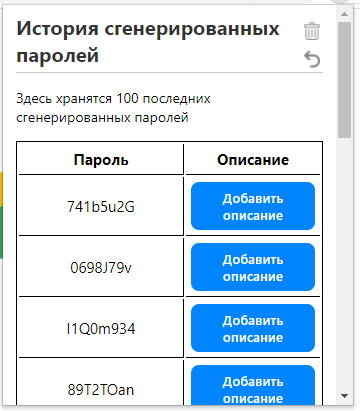
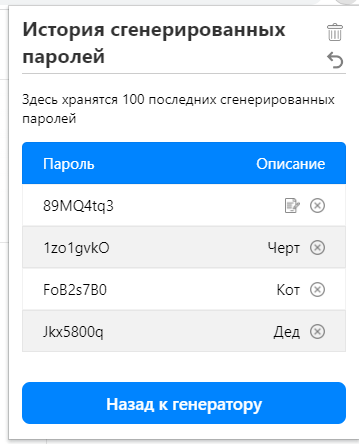
fix input lag after delete password

diff --git a/scripts/storageUI.js b/scripts/storageUI.js
@@ -12,13 +12,14 @@ async function loadPasswords() {
     const passwords = JSON.parse(await getStorageValue("passwordsHistory"));
     passwords.forEach(({ password, hint }, index) => {
         table.innerHTML += `
-        <div class="passwordsHistoryTable-item ${
-            index % 2 === 0 ? "gray-item" : ""
-        }"><p>${password}</p>
+        <div class="passwordsHistoryTable-item 
+        ${index % 2 === 0 ? "gray-item" : ""}"><p>${password}</p>
         <p>${
             hint.length > 0
                 ? `${hint} <img src="./images/cancelation.png" class="deletePasswordBtn" />`
-                : `<img src="./images/contract.png" class="addHintPasswordBtn" id='${index}' /><img src="./images/cancelation.png" class="deletePasswordBtn" id='${index}' /></p></div>`
+                : `<img src="./images/contract.png" class="addHintPasswordBtn" id='${index}' />
+                <img src="./images/cancelation.png" class="deletePasswordBtn" id='${index}' />
+        </p></div>`
         }`;
     });
 }
@@ -41,9 +42,21 @@ hintsBtns.addEventListener("click", async function (e) {
         passwords.splice(e.srcElement.id, 1);
         setStorageValue({
             passwordsHistory: JSON.stringify(passwords),
-        }).then(loadPasswords);
+        });
+        hintsBtns.removeChild(hintsBtns.children[+e.srcElement.id + 1]);
+        reloadIDsList();
     }
 });
+
+//Перезагрузка всех ID после удаления пароля в середине или начале списка
+function reloadIDsList() {
+    const deleteBtns = document.querySelectorAll(".deletePasswordBtn"),
+        addHintBtns = document.querySelectorAll(".addHintPasswordBtn");
+    for (let i = 0; i < deleteBtns.length; i++) {
+        deleteBtns[i].id = i;
+        addHintBtns[i].id = i;
+    }
+}
 
 //Обработка нажатия по иконке "Удалить всю историю паролей"
 const deleteHistoryIcon = document.querySelector("#trashCanImg");

diff --git a/styles/main.css b/styles/main.css
@@ -209,7 +209,7 @@ header{
     margin: 15px 0;
     font-size: 15px;
     overflow-y: auto;
-    max-height: 50vh;
+    max-height: 53vh;
 }
 .passwordsHistoryTable-item p{
     display: flex;
@@ -225,6 +225,9 @@ header{
     padding: 10px;
     border: 1px solid rgba(0, 0, 0, 0.05);
 }
+.passwordsHistoryTable-item:nth-child(2n + 1){
+    background: rgba(0, 0, 0, 0.05)
+}
 .passwordsHistoryTable-item img{
     cursor: pointer;
     max-width: 15px;
@@ -236,12 +239,9 @@ header{
 .passwordsHistoryTable-item img:hover{
     opacity: 0.9;
 }
-.gray-item{
-    background: rgba(0, 0, 0, 0.05)
-}
 .passwordsHistoryTable-title{
     border-radius: 5px 5px 0px 0px;
-    background: #0084FF;
+    background: #0084FF !important;
     color: white;
 }
 
